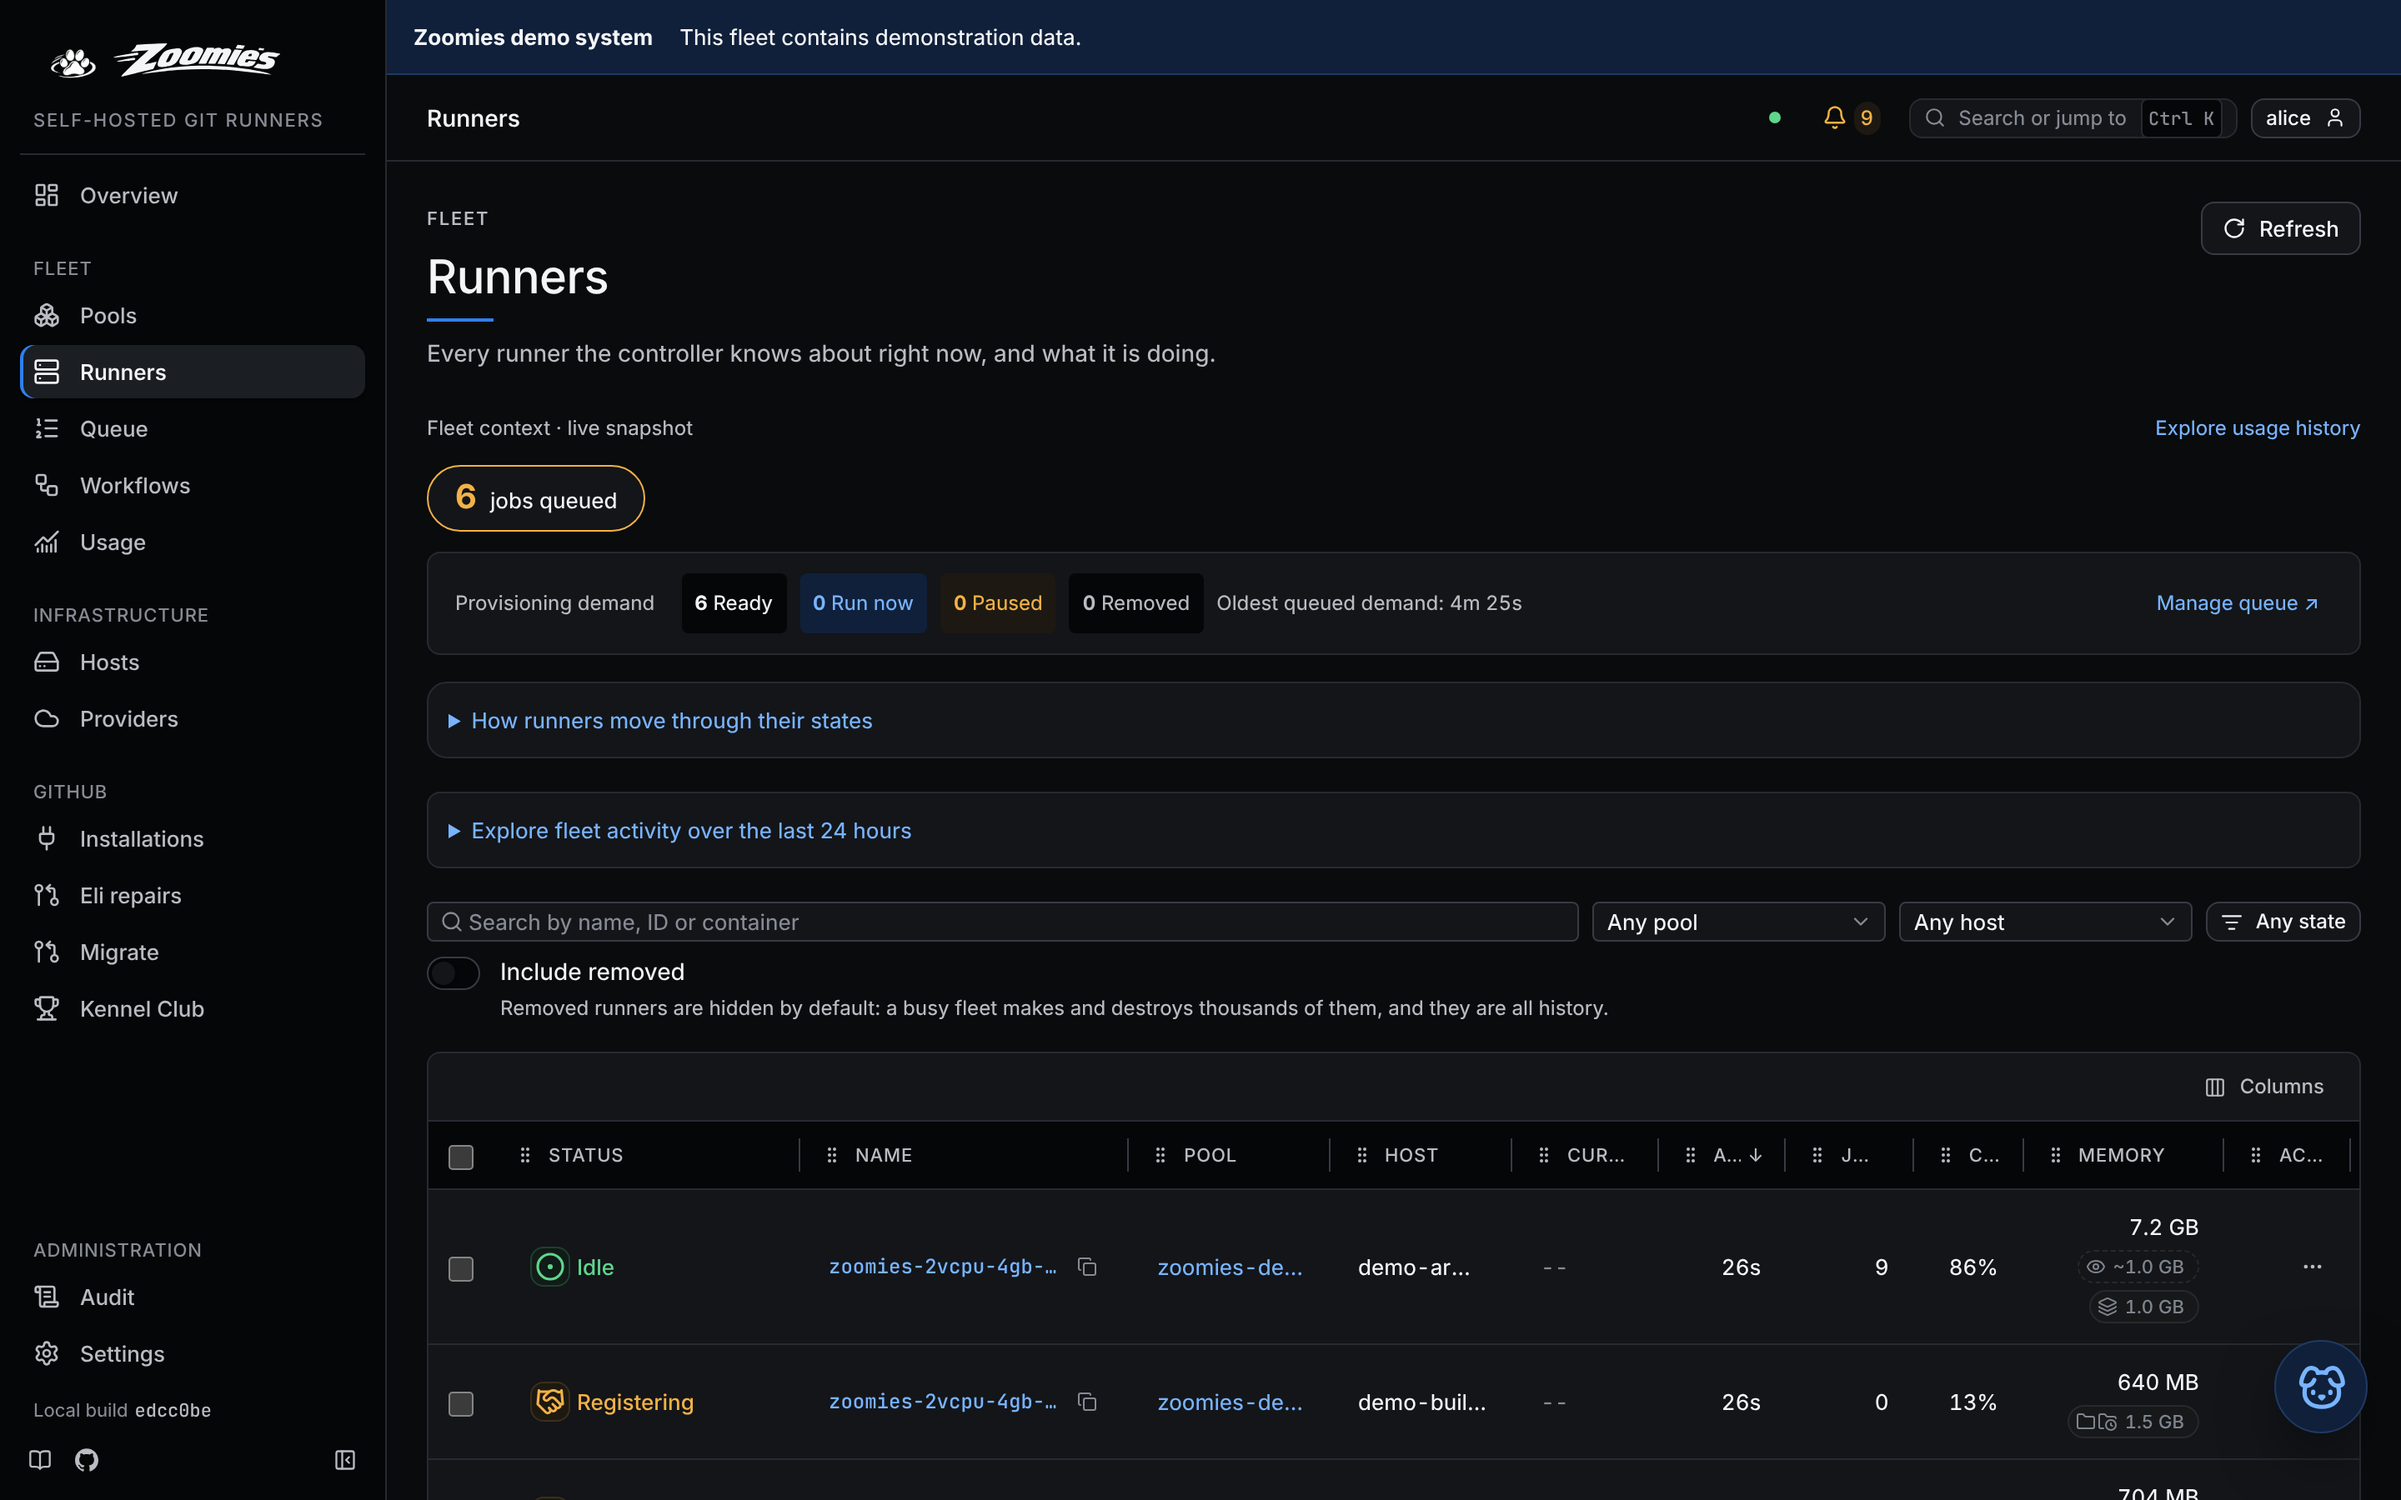
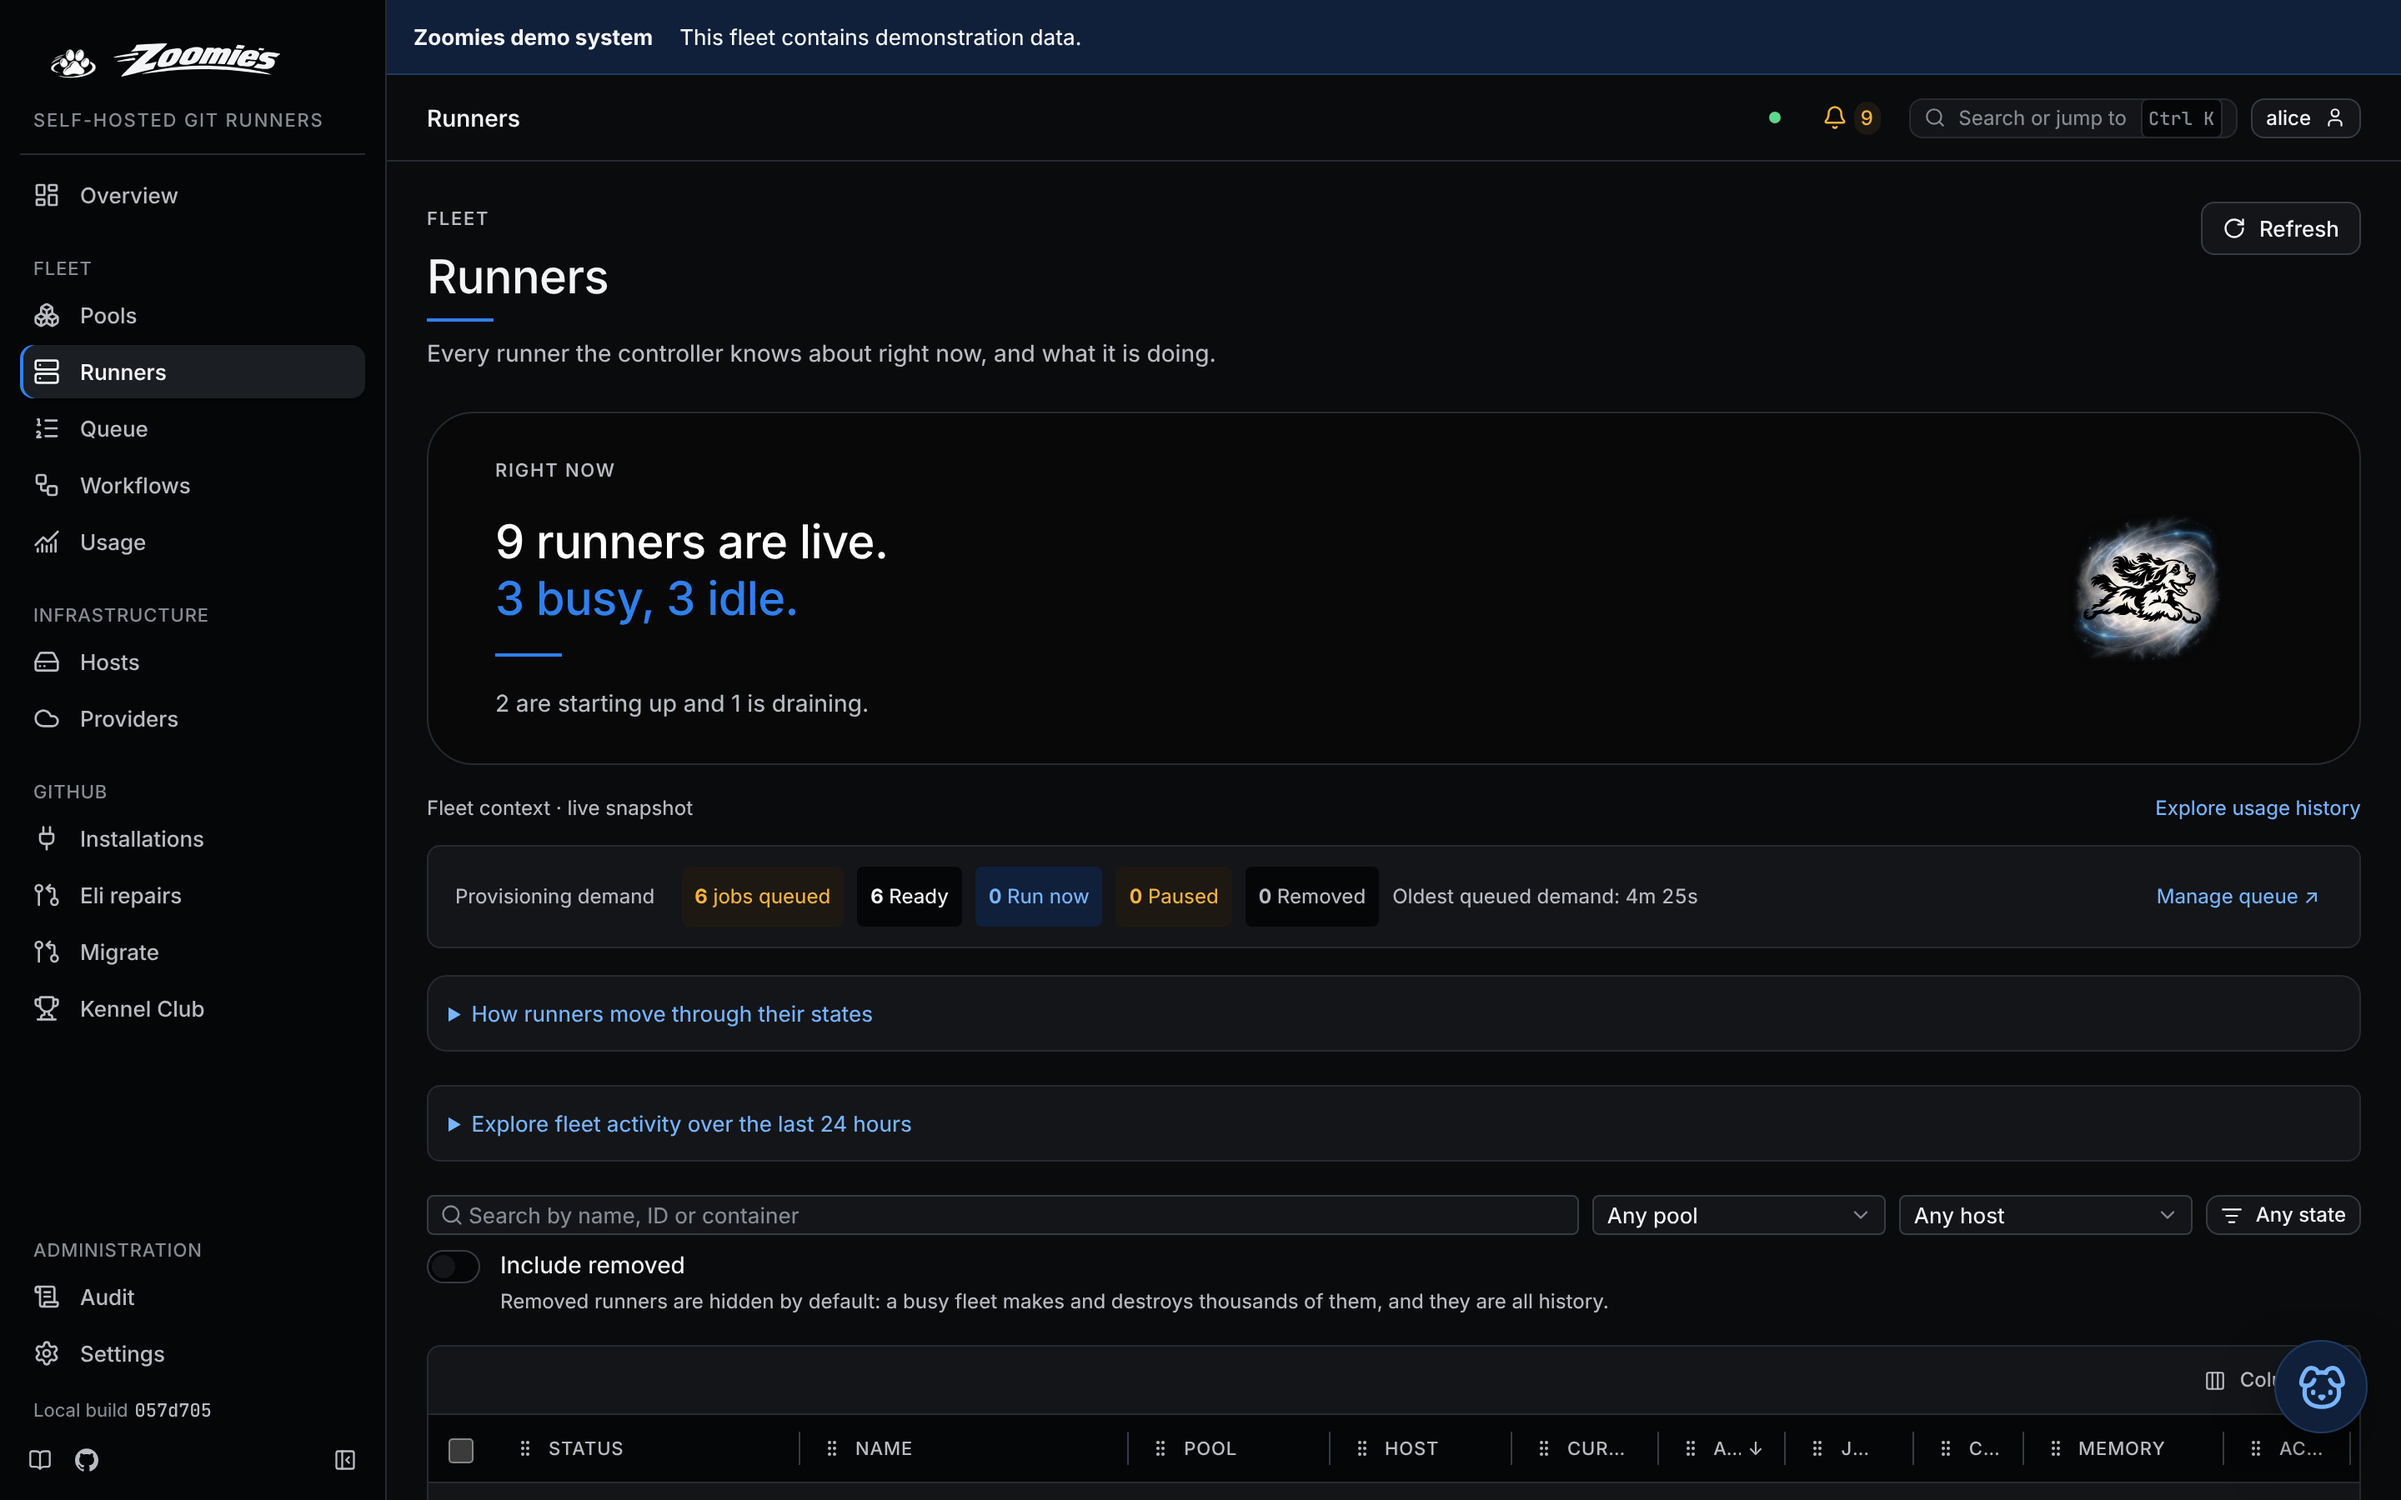
Document the page bands and recapture the pages they change
Claude-Session: https://claude.ai/code/session_01GkdhFBr16YDz8GRKZd9MHf

diff --git a/docs/ui.md b/docs/ui.md
@@ -156,6 +156,18 @@ pool) without leaving the keyboard.
 ![The command palette matching hosts, pools, runners and quick actions for the word "demo"](screenshots/command-palette-dark.webp#only-dark){ .zoomies-shot }
 ![The command palette matching hosts, pools, runners and quick actions for the word "demo"](screenshots/command-palette-light.webp#only-light){ .zoomies-shot }
 
+## Page bands
+
+The Overview opens on a hero, and the fleet pages open on a slimmer cut of the same
+stage: **Runners**, **Pools**, **Queue**, **Jobs**, **Workflows**, **Hosts** and
+**Providers**. Each says one thing about its page in a sentence, from figures the
+page already holds ("3 hosts are connected. 9 of 12 slots in use."), and the list or
+grid under it is the evidence. A band is Zoomies Black in both themes, uses only
+neutral white and the brand's blue, and is not shown on a phone, so the rows stay on
+the first screen. **Settings → Appearance → Page bands** has one switch per page,
+the Overview's included; they are all on until you switch one off, and the choice
+stays in that browser.
+
 ## Pools
 
 What runners to make. Each pool's labels, GitHub target, backend, floor and
@@ -166,8 +178,8 @@ how queue pressure compares with configured headroom is behind a disclosure,
 **How pool demand compares with headroom**, as the Runners page keeps its
 lifecycle.
 
-![The Pools page: the pool list with a folded explanation of queue pressure and headroom above it](screenshots/pools-dark.webp#only-dark){ .zoomies-shot }
-![The Pools page: the pool list with a folded explanation of queue pressure and headroom above it](screenshots/pools-light.webp#only-light){ .zoomies-shot }
+![The Pools page: a band saying how many pools are enabled, then the pool list with a folded explanation of queue pressure and headroom under it](screenshots/pools-dark.webp#only-dark){ .zoomies-shot }
+![The Pools page: a band saying how many pools are enabled, then the pool list with a folded explanation of queue pressure and headroom under it](screenshots/pools-light.webp#only-light){ .zoomies-shot }
 
 The page that creates one is the pool editor. It is six sections (**Name and
 labels**, **Hosts**, **Runner**, **Size**, **Scaling** and **Speed-ups**) and
@@ -225,10 +237,11 @@ Every runner that exists right now and what each one is doing. Removed runners
 are hidden by default, because a busy fleet makes and destroys thousands of
 them and they are all history. Rows select for bulk drain or delete, and the
 state filter is a real filter: it narrows the set rather than repainting it.
-Above the grid are the number of jobs queued (a link to them, in the warning
-colour once it reaches the queue threshold), the provisioning strip and a way to
-the queue; the page opens on the runners, and the other tiles it used to carry
-live on the Overview and the Queue. Behind a disclosure, **How runners move through their states**,
+Above the grid are a band that says how many runners are live and how they split,
+and the provisioning demand row, whose first figure is the number of jobs queued
+(a link to them, in the warning colour once it reaches the queue threshold),
+followed by the ready, run now, paused and removed counts and a way to the queue;
+the other tiles the page used to carry live on the Overview and the Queue. Behind a disclosure, **How runners move through their states**,
 the runner lifecycle is the controller's own state machine drawn out
 (provisioning, registering, idle, busy, draining) with how many runners are at
 each step this moment and a link into each; under it, a bar of the same states
@@ -242,8 +255,8 @@ list is narrowed to, and that the list's search is not applied to it. It is the
 answer [`zoomies analyse startup-failures`](cli.md#zoomies-analyse) prints, with
 its evidence folded under the next steps.
 
-![The Runners page: the provisioning strip and a folded explanation of how runners move through their states above the runner grid](screenshots/runners-dark.webp#only-dark){ .zoomies-shot }
-![The Runners page: the provisioning strip and a folded explanation of how runners move through their states above the runner grid](screenshots/runners-light.webp#only-light){ .zoomies-shot }
+![The Runners page: a band saying how many runners are live, the provisioning row with the jobs queued figure first, and a folded explanation of how runners move through their states above the runner grid](screenshots/runners-dark.webp#only-dark){ .zoomies-shot }
+![The Runners page: a band saying how many runners are live, the provisioning row with the jobs queued figure first, and a folded explanation of how runners move through their states above the runner grid](screenshots/runners-light.webp#only-light){ .zoomies-shot }
 
 A runner's page carries the job it is on, a timeline of how long it spent in
 each state (provisioning, registering, idle, busy) its resource usage as the
@@ -310,8 +323,8 @@ is not for this fleet, so it stops counting as queued everywhere; the
 Overview's queue depth and pool bars, `zoomies_jobs_queued` and the queue age
 with it. Restoring it from the Removed view puts it back.
 
-![The Queue page: status filters above the provisioning table, with demand and ordering folded under it](screenshots/queue-dark.webp#only-dark){ .zoomies-shot }
-![The Queue page: status filters above the provisioning table, with demand and ordering folded under it](screenshots/queue-light.webp#only-light){ .zoomies-shot }
+![The Queue page: a band saying how many jobs are waiting, then status filters above the provisioning table, with demand and ordering folded under it](screenshots/queue-dark.webp#only-dark){ .zoomies-shot }
+![The Queue page: a band saying how many jobs are waiting, then status filters above the provisioning table, with demand and ordering folded under it](screenshots/queue-light.webp#only-light){ .zoomies-shot }
 
 ## Workflows
 
@@ -423,8 +436,8 @@ immediately (queued demand paused, runners taken back) and records that it
 did, so the tiles and the lists agree from that moment rather than from
 whenever GitHub gets round to it.
 
-![The Jobs page: status buttons and filters above the job grid, with the fleet context folded under it](screenshots/jobs-dark.webp#only-dark){ .zoomies-shot }
-![The Jobs page: status buttons and filters above the job grid, with the fleet context folded under it](screenshots/jobs-light.webp#only-light){ .zoomies-shot }
+![The Jobs page: a band saying what is running and waiting, then status buttons and filters above the job grid, with the fleet context folded under it](screenshots/jobs-dark.webp#only-dark){ .zoomies-shot }
+![The Jobs page: a band saying what is running and waiting, then status buttons and filters above the job grid, with the fleet context folded under it](screenshots/jobs-light.webp#only-light){ .zoomies-shot }
 
 Opening a job says where it went wrong first: the step that failed and how
 long it ran, with a link to that step's log on GitHub, or, when the runner
@@ -754,8 +767,8 @@ that still have runners on them*, which loses whatever those runners were
 running. The same rules apply as when deleting one machine; the box is off
 again the next time the dialog opens.
 
-![The Providers page: machines owned against the ceiling that may not be passed, the lifecycle band from planned to draining with the switch that pauses new machines beside it, and the card for the one provider this fleet rents from](screenshots/providers-dark.webp#only-dark){ .zoomies-shot }
-![The Providers page: machines owned against the ceiling that may not be passed, the lifecycle band from planned to draining with the switch that pauses new machines beside it, and the card for the one provider this fleet rents from](screenshots/providers-light.webp#only-light){ .zoomies-shot }
+![The Providers page: a band saying how many machines are owned, then machines owned against the ceiling that may not be passed, the lifecycle band from planned to draining with the switch that pauses new machines beside it, and the card for the one provider this fleet rents from](screenshots/providers-dark.webp#only-dark){ .zoomies-shot }
+![The Providers page: a band saying how many machines are owned, then machines owned against the ceiling that may not be passed, the lifecycle band from planned to draining with the switch that pauses new machines beside it, and the card for the one provider this fleet rents from](screenshots/providers-light.webp#only-light){ .zoomies-shot }
 
 When a switch is the reason nothing is rented, a notice above the totals says so
 in the controller's own sentence, lists the pools it is holding back, and offers
@@ -1061,7 +1074,8 @@ A section of pages rather than a page of tabs, with its own rail beside them:
 your account, appearance and which events the Overview's feed shows; the
 accounts that can sign in and their roles, and the API tokens; the
 configuration this controller is actually running with, its backups, which
-release an update would take, and what it is. Each page has an address of its
+release an update would take, and what it is. Appearance also holds the **Page bands** switches (see [Page bands](#page-bands)).
+Each page has an address of its
 own, so a settings page is a link. Zoomies refuses any change that would leave
 no enabled administrator, and the pages that need that role are listed for
 everybody, marked rather than hidden.

diff --git a/docs/quickstart.md b/docs/quickstart.md
@@ -338,8 +338,8 @@ If the job waits, use [the queued-job guide](queued-job.md). If setup fails,
 use [troubleshooting](troubleshooting.md). Get this test working before moving
 an existing build.
 
-![The Jobs page: status buttons and filters above the job grid, with the fleet context folded under it](screenshots/jobs-dark.webp#only-dark){ .zoomies-shot }
-![The Jobs page: status buttons and filters above the job grid, with the fleet context folded under it](screenshots/jobs-light.webp#only-light){ .zoomies-shot }
+![The Jobs page: a band saying what is running and waiting, then status buttons and filters above the job grid, with the fleet context folded under it](screenshots/jobs-dark.webp#only-dark){ .zoomies-shot }
+![The Jobs page: a band saying what is running and waiting, then status buttons and filters above the job grid, with the fleet context folded under it](screenshots/jobs-light.webp#only-light){ .zoomies-shot }
 
 In a workflow you already have, the one line that changes is `runs-on`:
 

diff --git a/docs/hosts-and-pools.md b/docs/hosts-and-pools.md
@@ -356,8 +356,8 @@ pass; the runners already on it stay where they are.
 
 ## Adding a pool
 
-![The Pools page: the pool list with a folded explanation of queue pressure and headroom above it](screenshots/pools-dark.webp#only-dark){ .zoomies-shot }
-![The Pools page: the pool list with a folded explanation of queue pressure and headroom above it](screenshots/pools-light.webp#only-light){ .zoomies-shot }
+![The Pools page: a band saying how many pools are enabled, then the pool list with a folded explanation of queue pressure and headroom under it](screenshots/pools-dark.webp#only-dark){ .zoomies-shot }
+![The Pools page: a band saying how many pools are enabled, then the pool list with a folded explanation of queue pressure and headroom under it](screenshots/pools-light.webp#only-light){ .zoomies-shot }
 
 One pool is enough until the fleet has to answer two different questions. Add a
 second when a job needs something the first cannot give it:

diff --git a/docs/ui-guidelines.md b/docs/ui-guidelines.md
@@ -667,7 +667,11 @@ blue rule and one sentence that answers "is anything wrong" in counts by
 severity, never a problem's own words, and with no status colour in it. It costs
 the Overview some height, so the pools start within the first 1000px of a
 desktop window and no longer within 900px; the hero is left out on a phone,
-where the pools must still be on the first screen. The wrong-address page uses
+where the pools must still be on the first screen. The fleet pages (Runners,
+Pools, Queue, Jobs, Workflows, Hosts and Providers) open on the same stage in a
+slimmer cut, with one sentence from the page's own figures; each is switched off
+per page in Appearance (a list of hidden pages in the browser, so a band added
+later is on), and a phone never shows one. The wrong-address page uses
 the same stage with the dog.
 
 Persistent left navigation, collapsible to icons only (persisted). Order is
